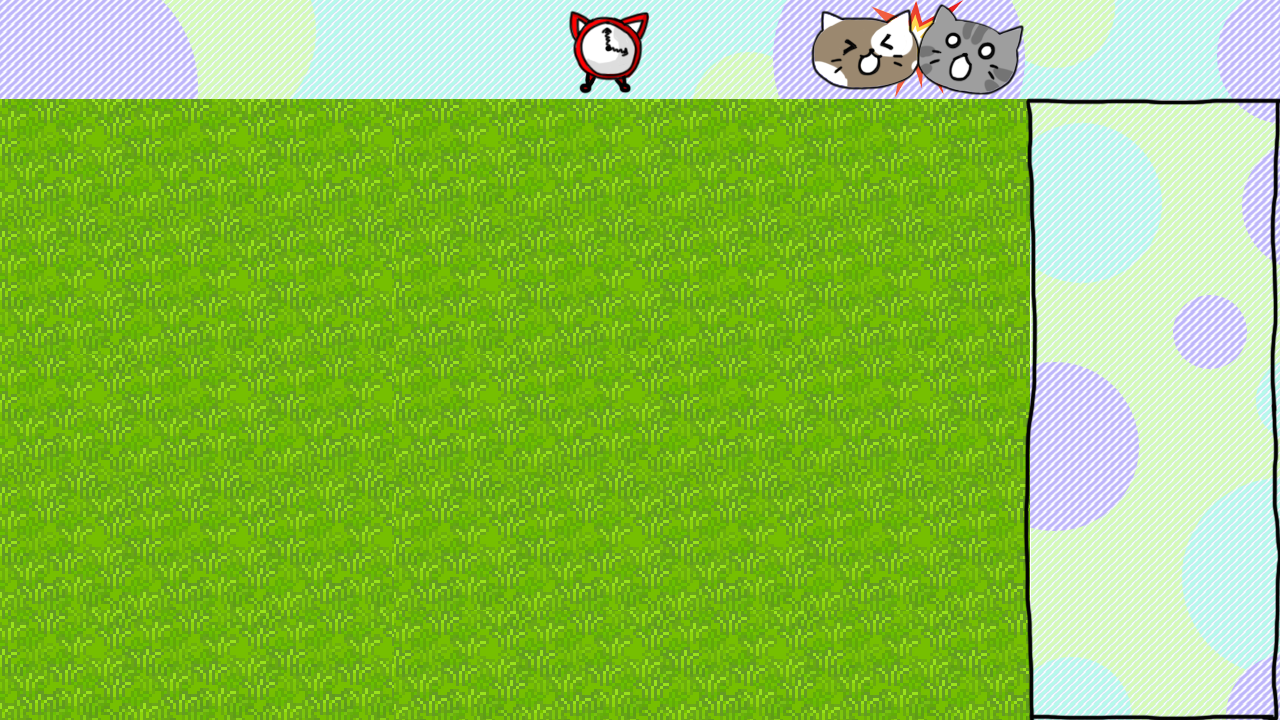
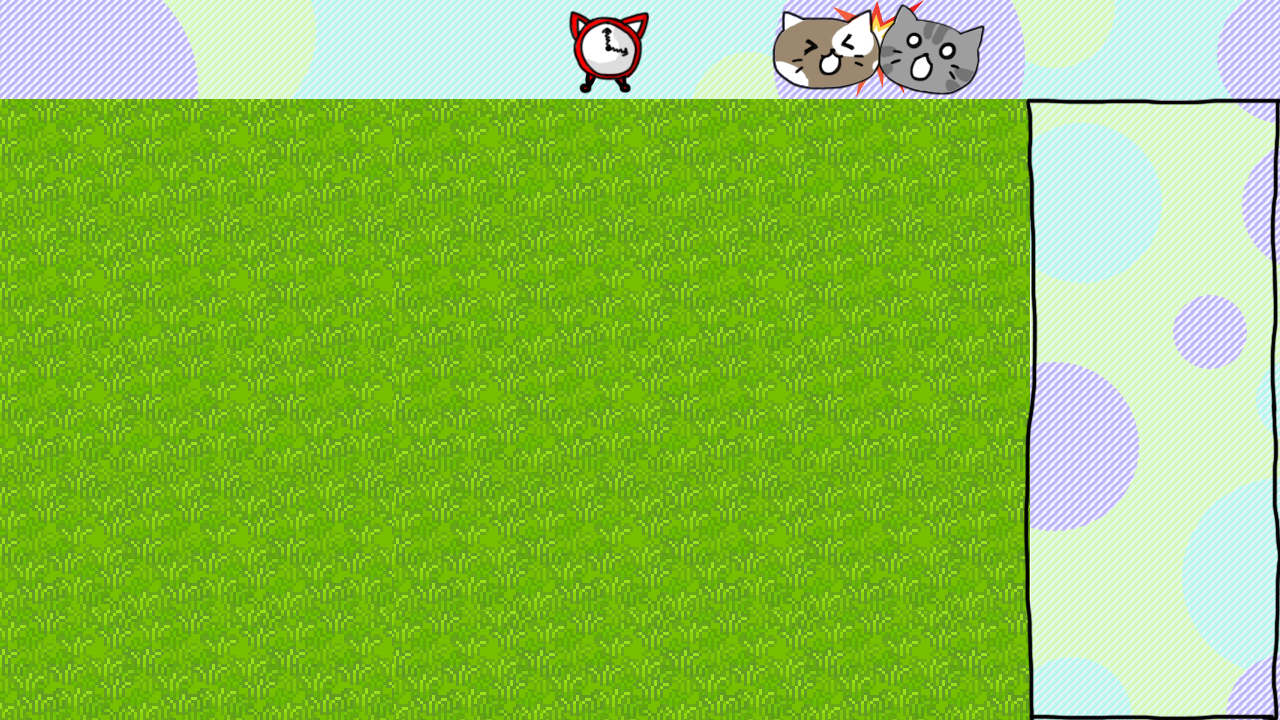
updated gamebg.png and gamerenderer for better topbar arrangements :D

Changed region(s): [[0.5938, 0.0, 0.8125, 0.1528]]

diff --git a/core/src/gameworld/GameRenderer.java b/core/src/gameworld/GameRenderer.java
@@ -56,13 +56,13 @@ public class GameRenderer {
         shapeRenderer.setProjectionMatrix(cam.combined);
 
         this.font = new BitmapFont(Gdx.files.internal("data/font.fnt"));
-        this.font.getData().setScale(GameConstants.SCALE_X, GameConstants.SCALE_Y);
+        this.font.getData().setScale(GameConstants.SCALE_X*(float)0.9, GameConstants.SCALE_Y*(float)0.9);
 
         this.scorefont = new BitmapFont(Gdx.files.internal("data/font.fnt"));
         this.scorefont.getData().setScale(GameConstants.SCALE_X*(float)0.8, GameConstants.SCALE_Y*(float)0.8);
 
         this.penaltyfont = new BitmapFont(Gdx.files.internal("data/font.fnt"));
-        this.scorefont.getData().setScale(GameConstants.SCALE_X*(float)0.6, GameConstants.SCALE_Y*(float)0.6);
+        this.penaltyfont.getData().setScale(GameConstants.SCALE_X*(float)0.7, GameConstants.SCALE_Y*(float)0.7);
     }
 
     public void setTouched(boolean touched) {
@@ -93,10 +93,10 @@ public class GameRenderer {
 
         String collisionPenalty = GameWorld.collisionPenalty;
         String debugTag = GameWorld.isOwner ? "Server: " : "Player: " ;
-        this.font.draw(batcher, debugTag + "Get " + myWorld.endScore + " points!", 10*GameConstants.SCALE_X, 700* GameConstants.SCALE_Y);
-        this.penaltyfont.draw(batcher, ""+(120-(GameWorld.gameTimer/60)),950*GameConstants.SCALE_X, 700* GameConstants.SCALE_Y);
+        this.font.draw(batcher, "Get " + myWorld.endScore + " points!", 10*GameConstants.SCALE_X, 700* GameConstants.SCALE_Y);
+        this.penaltyfont.draw(batcher, ""+(120-(GameWorld.gameTimer/60)),666*GameConstants.SCALE_X, 690* GameConstants.SCALE_Y);
 
-        this.penaltyfont.draw(batcher, collisionPenalty + " points", 1030 * GameConstants.SCALE_X, 700 * GameConstants.SCALE_Y);
+        this.penaltyfont.draw(batcher, collisionPenalty + " points", 985 * GameConstants.SCALE_X, 690 * GameConstants.SCALE_Y);
 
         synchronized (GameWorld.items){
             renderItems(myWorld.items);
@@ -271,7 +271,7 @@ public class GameRenderer {
         batcher.enableBlending();
 
         batcher.draw(AssetLoader.timeOverlayAnimation.getKeyFrame(runTime),
-                566*GameConstants.SCALE_X,
+                560*GameConstants.SCALE_X,
                 620*GameConstants.SCALE_Y,
                 100*GameConstants.SCALE_X,
                 100*GameConstants.SCALE_Y);
